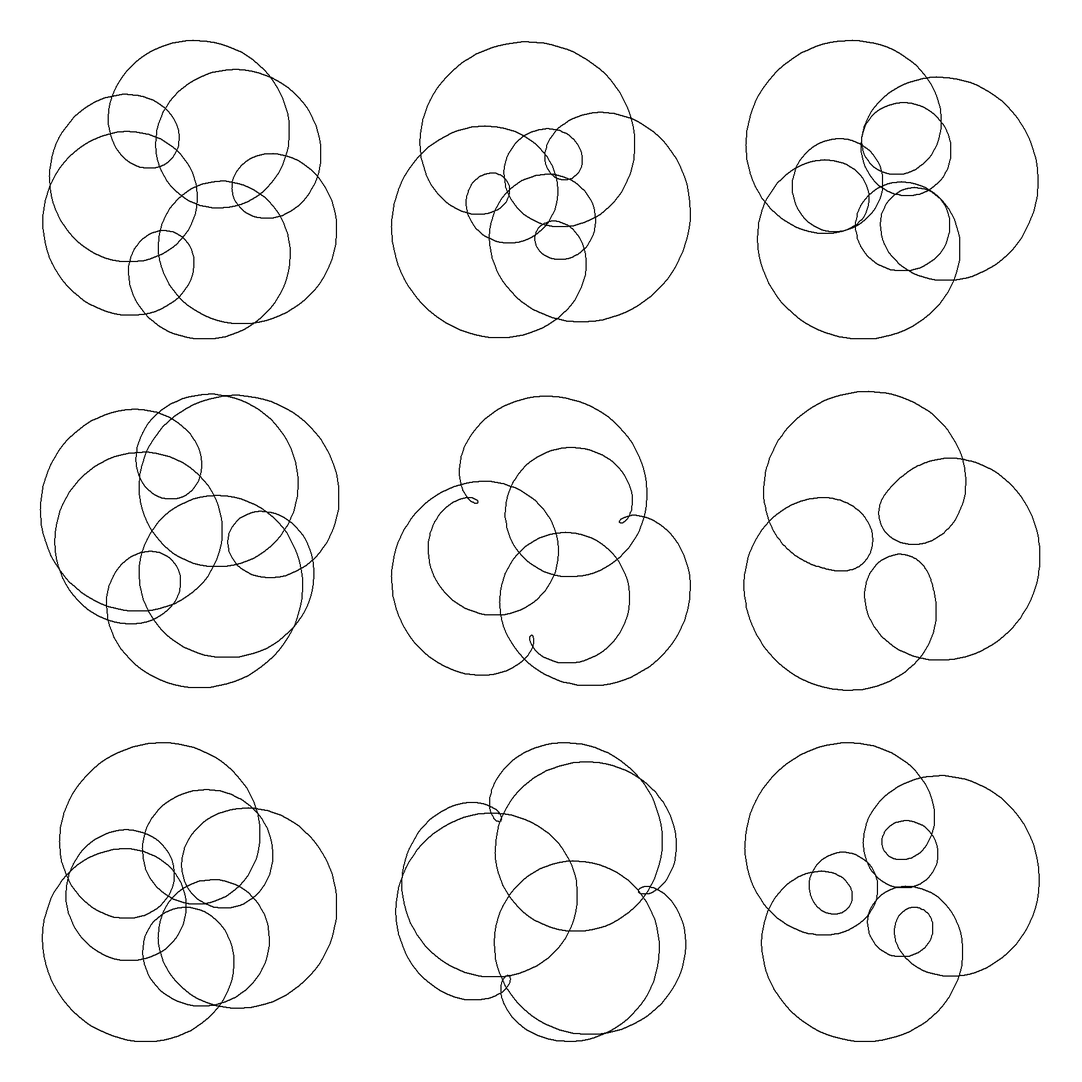
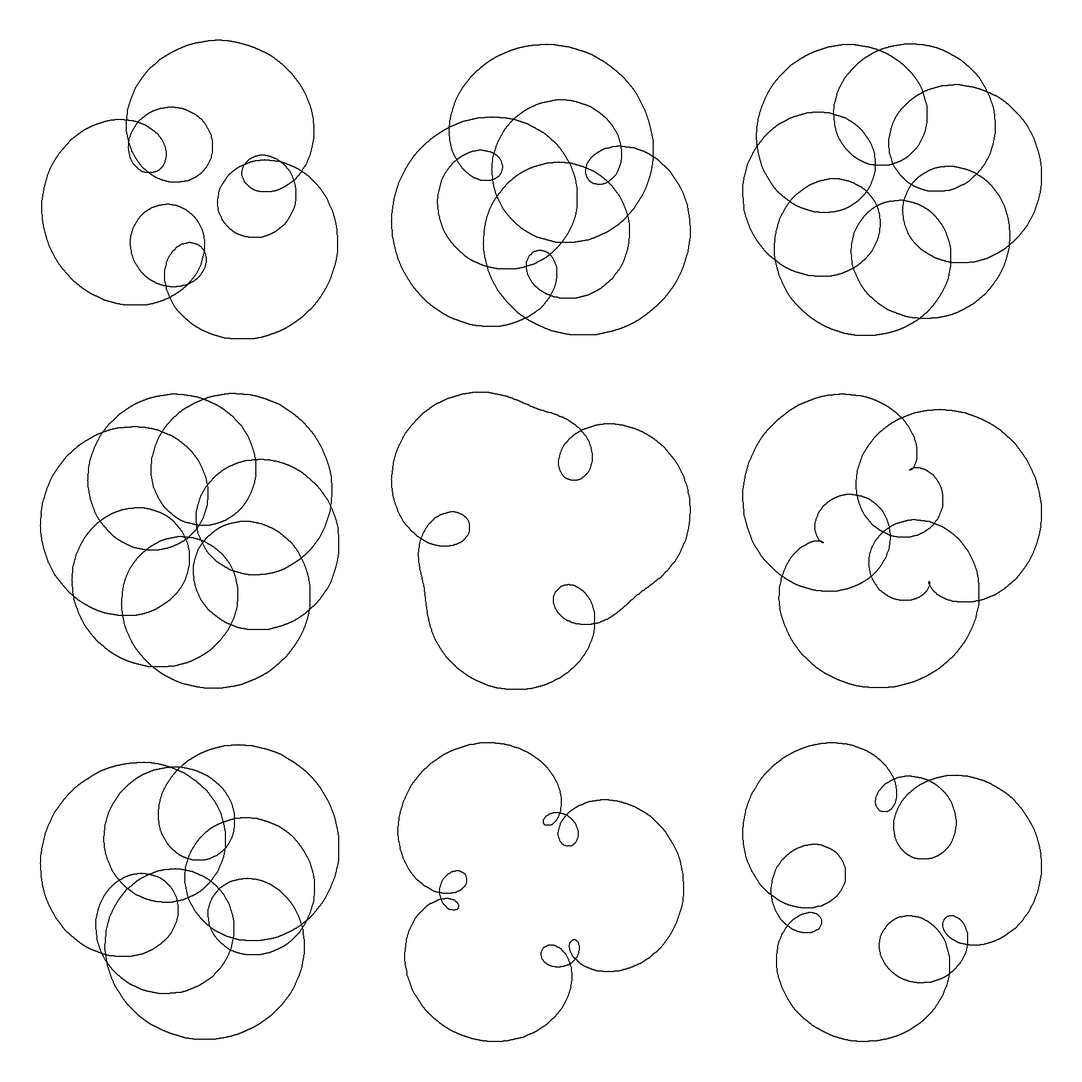
updatemysterybrot

diff --git a/docs/posts/mysterybrot/index.html b/docs/posts/mysterybrot/index.html
@@ -388,7 +388,7 @@ z_n&amp;=z_{n-1}^2+c
 <span id="cb6-2"><a href="#cb6-2" aria-hidden="true" tabindex="-1"></a>t <span class="ot">&lt;-</span> <span class="fu">seq</span>(<span class="dv">0</span>,<span class="dv">2</span><span class="sc">*</span>pi,<span class="at">l=</span><span class="dv">500</span>)</span>
 <span id="cb6-3"><a href="#cb6-3" aria-hidden="true" tabindex="-1"></a><span class="fu">par</span>(<span class="at">mfrow=</span><span class="fu">c</span>(<span class="dv">3</span>,<span class="dv">3</span>),<span class="at">mar=</span><span class="fu">c</span>(<span class="dv">1</span>,<span class="dv">1</span>,<span class="dv">1</span>,<span class="dv">1</span>),<span class="at">oma=</span><span class="fu">c</span>(<span class="dv">1</span>,<span class="dv">1</span>,<span class="dv">1</span>,<span class="dv">1</span>))</span>
 <span id="cb6-4"><a href="#cb6-4" aria-hidden="true" tabindex="-1"></a><span class="cf">for</span>(i <span class="cf">in</span> <span class="dv">1</span><span class="sc">:</span><span class="dv">9</span>){</span>
-<span id="cb6-5"><a href="#cb6-5" aria-hidden="true" tabindex="-1"></a><span class="fu">plot</span>(<span class="fu">exp</span>(<span class="dv">1</span>i<span class="sc">*</span>t) <span class="sc">+</span> <span class="fu">runif</span>(<span class="dv">1</span>)<span class="sc">*</span><span class="fu">exp</span>(<span class="dv">1</span>i<span class="sc">*</span>t)<span class="sc">^</span><span class="dv">4</span> <span class="sc">+</span> <span class="fu">runif</span>(<span class="dv">1</span>)<span class="sc">*</span><span class="fu">exp</span>(<span class="dv">1</span>i<span class="sc">*</span>(t<span class="sc">+</span>pi<span class="sc">*</span><span class="fu">runif</span>(<span class="dv">1</span>)))<span class="sc">^</span><span class="dv">7</span>, </span>
+<span id="cb6-5"><a href="#cb6-5" aria-hidden="true" tabindex="-1"></a><span class="fu">plot</span>(<span class="fu">exp</span>(<span class="dv">1</span>i<span class="sc">*</span>t) <span class="sc">+</span> <span class="fu">runif</span>(<span class="dv">1</span>,<span class="sc">-</span><span class="dv">1</span>,<span class="dv">1</span>)<span class="sc">*</span><span class="fu">exp</span>(<span class="dv">1</span>i<span class="sc">*</span>t)<span class="sc">^</span><span class="dv">4</span> <span class="sc">+</span> <span class="fu">runif</span>(<span class="dv">1</span>,<span class="sc">-</span><span class="dv">1</span>,<span class="dv">1</span>)<span class="sc">*</span><span class="fu">exp</span>(<span class="dv">1</span>i<span class="sc">*</span>(t<span class="sc">+</span>pi<span class="sc">*</span><span class="fu">runif</span>(<span class="dv">1</span>,<span class="dv">0</span>,<span class="dv">2</span>)))<span class="sc">^</span><span class="dv">7</span>, </span>
 <span id="cb6-6"><a href="#cb6-6" aria-hidden="true" tabindex="-1"></a>     <span class="at">type=</span><span class="st">"l"</span>, <span class="at">axes=</span>F,<span class="at">ann=</span>T,<span class="at">xlab=</span><span class="st">""</span>, <span class="at">ylab=</span><span class="st">""</span>,<span class="at">asp=</span><span class="dv">1</span></span>
 <span id="cb6-7"><a href="#cb6-7" aria-hidden="true" tabindex="-1"></a>     )</span>
 <span id="cb6-8"><a href="#cb6-8" aria-hidden="true" tabindex="-1"></a>}</span></code><button title="Copy to Clipboard" class="code-copy-button"><i class="bi"></i></button></pre></div>
@@ -486,7 +486,7 @@ z_n&amp;=z_{n-1}^4+z_{n-1}^7+c
 <summary>Code</summary>
 <div class="sourceCode cell-code" id="cb9"><pre class="sourceCode r code-with-copy"><code class="sourceCode r"><span id="cb9-1"><a href="#cb9-1" aria-hidden="true" tabindex="-1"></a><span class="fu">par</span>(<span class="at">mfrow=</span><span class="fu">c</span>(<span class="dv">1</span>,<span class="dv">1</span>))</span>
 <span id="cb9-2"><a href="#cb9-2" aria-hidden="true" tabindex="-1"></a><span class="fu">par</span>(<span class="at">mar=</span><span class="fu">c</span>(<span class="dv">0</span>,<span class="dv">0</span>,<span class="dv">0</span>,<span class="dv">0</span>))</span>
-<span id="cb9-3"><a href="#cb9-3" aria-hidden="true" tabindex="-1"></a>l<span class="ot">=</span><span class="fl">1.5</span></span>
+<span id="cb9-3"><a href="#cb9-3" aria-hidden="true" tabindex="-1"></a>l<span class="ot">=</span><span class="fl">1.4</span></span>
 <span id="cb9-4"><a href="#cb9-4" aria-hidden="true" tabindex="-1"></a><span class="co"># variables</span></span>
 <span id="cb9-5"><a href="#cb9-5" aria-hidden="true" tabindex="-1"></a>res<span class="ot">=</span><span class="dv">1000</span></span>
 <span id="cb9-6"><a href="#cb9-6" aria-hidden="true" tabindex="-1"></a>n<span class="ot">=</span><span class="dv">100</span></span>
@@ -500,16 +500,53 @@ z_n&amp;=z_{n-1}^4+z_{n-1}^7+c
 <span id="cb9-14"><a href="#cb9-14" aria-hidden="true" tabindex="-1"></a>    z[index] <span class="ot">&lt;-</span> </span>
 <span id="cb9-15"><a href="#cb9-15" aria-hidden="true" tabindex="-1"></a>          z[index]<span class="sc">^</span><span class="dv">6</span> <span class="sc">-</span></span>
 <span id="cb9-16"><a href="#cb9-16" aria-hidden="true" tabindex="-1"></a>          (<span class="fu">exp</span>(<span class="dv">2</span>i<span class="sc">*</span>pi<span class="sc">/</span><span class="dv">3</span>)<span class="sc">*</span>z[index])<span class="sc">^</span><span class="dv">11</span> <span class="sc">+</span> </span>
-<span id="cb9-17"><a href="#cb9-17" aria-hidden="true" tabindex="-1"></a>          c[index]</span>
-<span id="cb9-18"><a href="#cb9-18" aria-hidden="true" tabindex="-1"></a>    o[index] <span class="ot">&lt;-</span> <span class="fu">pmin</span>(o[index] , <span class="fu">Mod</span>(z[index]))</span>
-<span id="cb9-19"><a href="#cb9-19" aria-hidden="true" tabindex="-1"></a>}</span>
-<span id="cb9-20"><a href="#cb9-20" aria-hidden="true" tabindex="-1"></a>o2 <span class="ot">&lt;-</span> <span class="sc">-</span><span class="fu">log</span>(o)</span>
-<span id="cb9-21"><a href="#cb9-21" aria-hidden="true" tabindex="-1"></a><span class="fu">image</span>(x,y,o2,<span class="at">col=</span><span class="fu">hcl.colors</span>(<span class="dv">1000</span>,<span class="at">palette =</span> <span class="st">"Oslo"</span>),<span class="at">asp=</span><span class="dv">1</span>,<span class="at">axes=</span>F,<span class="at">ann=</span>F)</span></code><button title="Copy to Clipboard" class="code-copy-button"><i class="bi"></i></button></pre></div>
+<span id="cb9-17"><a href="#cb9-17" aria-hidden="true" tabindex="-1"></a>          </span>
+<span id="cb9-18"><a href="#cb9-18" aria-hidden="true" tabindex="-1"></a>          c[index]</span>
+<span id="cb9-19"><a href="#cb9-19" aria-hidden="true" tabindex="-1"></a>    o[index] <span class="ot">&lt;-</span> <span class="fu">pmin</span>(o[index] , <span class="fu">Mod</span>(z[index]))</span>
+<span id="cb9-20"><a href="#cb9-20" aria-hidden="true" tabindex="-1"></a>}</span>
+<span id="cb9-21"><a href="#cb9-21" aria-hidden="true" tabindex="-1"></a>o2 <span class="ot">&lt;-</span> <span class="sc">-</span><span class="fu">log</span>(o)</span>
+<span id="cb9-22"><a href="#cb9-22" aria-hidden="true" tabindex="-1"></a><span class="fu">image</span>(x,y,o2,<span class="at">col=</span><span class="fu">hcl.colors</span>(<span class="dv">1000</span>,<span class="at">palette =</span> <span class="st">"Batlow"</span>, <span class="at">rev=</span><span class="cn">TRUE</span>),<span class="at">asp=</span><span class="dv">1</span>,<span class="at">axes=</span>F,<span class="at">ann=</span>F)</span></code><button title="Copy to Clipboard" class="code-copy-button"><i class="bi"></i></button></pre></div>
 </details>
 <div class="cell-output-display">
 <div>
 <figure class="figure">
 <p><img src="index_files/figure-html/unnamed-chunk-10-1.png" class="img-fluid figure-img" width="960"></p>
+</figure>
+</div>
+</div>
+</div>
+<p>This one has three terms with complex coefficients</p>
+<div class="cell">
+<details class="code-fold">
+<summary>Code</summary>
+<div class="sourceCode cell-code" id="cb10"><pre class="sourceCode r code-with-copy"><code class="sourceCode r"><span id="cb10-1"><a href="#cb10-1" aria-hidden="true" tabindex="-1"></a><span class="fu">par</span>(<span class="at">mfrow=</span><span class="fu">c</span>(<span class="dv">1</span>,<span class="dv">1</span>))</span>
+<span id="cb10-2"><a href="#cb10-2" aria-hidden="true" tabindex="-1"></a><span class="fu">par</span>(<span class="at">mar=</span><span class="fu">c</span>(<span class="dv">0</span>,<span class="dv">0</span>,<span class="dv">0</span>,<span class="dv">0</span>))</span>
+<span id="cb10-3"><a href="#cb10-3" aria-hidden="true" tabindex="-1"></a>l<span class="ot">=</span><span class="fl">1.3</span></span>
+<span id="cb10-4"><a href="#cb10-4" aria-hidden="true" tabindex="-1"></a><span class="co"># variables</span></span>
+<span id="cb10-5"><a href="#cb10-5" aria-hidden="true" tabindex="-1"></a>res<span class="ot">=</span><span class="dv">1000</span></span>
+<span id="cb10-6"><a href="#cb10-6" aria-hidden="true" tabindex="-1"></a>n<span class="ot">=</span><span class="dv">200</span></span>
+<span id="cb10-7"><a href="#cb10-7" aria-hidden="true" tabindex="-1"></a>x <span class="ot">&lt;-</span> y <span class="ot">&lt;-</span> <span class="fu">seq</span>(<span class="sc">-</span>l,l, <span class="at">length.out=</span>res)</span>
+<span id="cb10-8"><a href="#cb10-8" aria-hidden="true" tabindex="-1"></a>c <span class="ot">&lt;-</span> <span class="fu">outer</span>(x,y<span class="sc">*</span><span class="dv">1</span>i,<span class="at">FUN=</span><span class="st">"+"</span>)</span>
+<span id="cb10-9"><a href="#cb10-9" aria-hidden="true" tabindex="-1"></a>z <span class="ot">&lt;-</span> <span class="fu">matrix</span>(<span class="fl">0.0</span>, <span class="at">nrow=</span>res, <span class="at">ncol=</span>res)</span>
+<span id="cb10-10"><a href="#cb10-10" aria-hidden="true" tabindex="-1"></a>o <span class="ot">&lt;-</span> <span class="fu">matrix</span>(<span class="fl">1e5</span>, <span class="at">nrow=</span>res, <span class="at">ncol=</span>res)</span>
+<span id="cb10-11"><a href="#cb10-11" aria-hidden="true" tabindex="-1"></a><span class="cf">for</span> (rep <span class="cf">in</span> <span class="dv">1</span><span class="sc">:</span>n) { </span>
+<span id="cb10-12"><a href="#cb10-12" aria-hidden="true" tabindex="-1"></a>    <span class="co">#print(rep)</span></span>
+<span id="cb10-13"><a href="#cb10-13" aria-hidden="true" tabindex="-1"></a>    index <span class="ot">&lt;-</span> <span class="fu">which</span>(<span class="fu">Mod</span>(z) <span class="sc">&lt;</span> <span class="dv">5</span>)</span>
+<span id="cb10-14"><a href="#cb10-14" aria-hidden="true" tabindex="-1"></a>    z[index] <span class="ot">&lt;-</span> </span>
+<span id="cb10-15"><a href="#cb10-15" aria-hidden="true" tabindex="-1"></a>          .<span class="dv">4</span><span class="sc">*</span>(<span class="dv">1-1</span>i)<span class="sc">*</span>z[index]<span class="sc">^</span>(<span class="dv">1</span>) <span class="sc">-</span></span>
+<span id="cb10-16"><a href="#cb10-16" aria-hidden="true" tabindex="-1"></a>          (<span class="dv">4</span><span class="fl">+.2</span>i)<span class="sc">*</span>z[index]<span class="sc">^</span><span class="dv">11</span> <span class="sc">-</span> </span>
+<span id="cb10-17"><a href="#cb10-17" aria-hidden="true" tabindex="-1"></a>          (.<span class="dv">4</span><span class="fl">-.2</span>i)<span class="sc">*</span>z[index]<span class="sc">^</span><span class="dv">31</span> <span class="sc">-</span> </span>
+<span id="cb10-18"><a href="#cb10-18" aria-hidden="true" tabindex="-1"></a>          </span>
+<span id="cb10-19"><a href="#cb10-19" aria-hidden="true" tabindex="-1"></a>          c[index]</span>
+<span id="cb10-20"><a href="#cb10-20" aria-hidden="true" tabindex="-1"></a>    o[index] <span class="ot">&lt;-</span> <span class="fu">pmin</span>(o[index] , <span class="fu">Mod</span>(z[index]))</span>
+<span id="cb10-21"><a href="#cb10-21" aria-hidden="true" tabindex="-1"></a>}</span>
+<span id="cb10-22"><a href="#cb10-22" aria-hidden="true" tabindex="-1"></a>o2 <span class="ot">&lt;-</span> <span class="sc">-</span><span class="fu">log</span>(o) <span class="sc">|&gt;</span> <span class="fu">pmin</span>(<span class="dv">4</span>)</span>
+<span id="cb10-23"><a href="#cb10-23" aria-hidden="true" tabindex="-1"></a><span class="fu">image</span>(x,y,o2,<span class="at">col=</span><span class="fu">hcl.colors</span>(<span class="dv">1000</span>,<span class="at">palette =</span> <span class="st">"Oslo"</span>, <span class="at">rev=</span><span class="cn">TRUE</span>),<span class="at">asp=</span><span class="dv">1</span>,<span class="at">axes=</span>F,<span class="at">ann=</span>F)</span></code><button title="Copy to Clipboard" class="code-copy-button"><i class="bi"></i></button></pre></div>
+</details>
+<div class="cell-output-display">
+<div>
+<figure class="figure">
+<p><img src="index_files/figure-html/unnamed-chunk-11-1.png" class="img-fluid figure-img" width="960"></p>
 </figure>
 </div>
 </div>
@@ -526,47 +563,47 @@ z_n&amp;=z_{n-1}^4+z_{n-1}^7+c
 <p>This code will create a .png for every frame of the animation, then you’ll need <code>ffmpeg</code> or similar to turn these into a video.</p>
 <p>Thanks for reading, comments always welcome.</p>
 <div class="cell">
-<div class="sourceCode cell-code" id="cb10"><pre class="sourceCode r code-with-copy"><code class="sourceCode r"><span id="cb10-1"><a href="#cb10-1" aria-hidden="true" tabindex="-1"></a>fv <span class="ot">&lt;-</span> \(x) <span class="fu">ifelse</span>(x <span class="sc">&lt;</span> <span class="fl">0.2</span> , x<span class="sc">*</span><span class="dv">3</span> , <span class="dv">1</span><span class="sc">-</span>(<span class="dv">1</span><span class="sc">-</span>x)<span class="sc">/</span><span class="dv">2</span>  ) <span class="co"># curve for the brightness</span></span>
-<span id="cb10-2"><a href="#cb10-2" aria-hidden="true" tabindex="-1"></a>res<span class="ot">=</span><span class="dv">1000</span> <span class="co"># resolution</span></span>
-<span id="cb10-3"><a href="#cb10-3" aria-hidden="true" tabindex="-1"></a>r<span class="ot">=</span><span class="dv">300</span>  <span class="co">#  total number of frames</span></span>
-<span id="cb10-4"><a href="#cb10-4" aria-hidden="true" tabindex="-1"></a><span class="cf">for</span>(i <span class="cf">in</span> <span class="dv">1</span><span class="sc">:</span>r){</span>
-<span id="cb10-5"><a href="#cb10-5" aria-hidden="true" tabindex="-1"></a>  zoom<span class="ot">=</span><span class="fl">1.5</span></span>
-<span id="cb10-6"><a href="#cb10-6" aria-hidden="true" tabindex="-1"></a>  theta <span class="ot">=</span> <span class="dv">2</span><span class="sc">*</span>pi<span class="sc">*</span>i<span class="sc">/</span>r  <span class="co"># defines the amplitude of terms of the polynomial</span></span>
-<span id="cb10-7"><a href="#cb10-7" aria-hidden="true" tabindex="-1"></a>  a1 <span class="ot">=</span> <span class="fu">cos</span>(theta) <span class="sc">*</span> <span class="fu">exp</span>(<span class="sc">-</span><span class="dv">1</span>i<span class="sc">*</span>theta)</span>
-<span id="cb10-8"><a href="#cb10-8" aria-hidden="true" tabindex="-1"></a>  a2 <span class="ot">=</span> (theta<span class="sc">&lt;</span>pi)<span class="sc">*</span><span class="fu">sin</span>(theta) <span class="sc">*</span> <span class="fu">exp</span>(<span class="dv">1</span>i<span class="sc">*</span><span class="dv">2</span><span class="sc">*</span>theta)</span>
-<span id="cb10-9"><a href="#cb10-9" aria-hidden="true" tabindex="-1"></a>  a3 <span class="ot">=</span> (theta<span class="sc">&gt;</span>pi)<span class="sc">*</span><span class="fu">sin</span>(theta) <span class="sc">*</span> <span class="fu">exp</span>(<span class="dv">1</span>i<span class="sc">*</span><span class="dv">2</span><span class="sc">*</span>theta)</span>
-<span id="cb10-10"><a href="#cb10-10" aria-hidden="true" tabindex="-1"></a>  x <span class="ot">&lt;-</span> zoom<span class="sc">*</span><span class="fu">seq</span>(<span class="sc">-</span><span class="dv">1</span>,<span class="dv">1</span>, <span class="at">l=</span>res) <span class="co"># get the x and y axes</span></span>
-<span id="cb10-11"><a href="#cb10-11" aria-hidden="true" tabindex="-1"></a>  y <span class="ot">&lt;-</span> zoom<span class="sc">*</span><span class="fu">seq</span>(<span class="sc">-</span><span class="dv">1</span>,<span class="dv">1</span>, <span class="at">l=</span>res) </span>
-<span id="cb10-12"><a href="#cb10-12" aria-hidden="true" tabindex="-1"></a>  c <span class="ot">&lt;-</span> <span class="fu">outer</span>(x,y<span class="sc">*</span><span class="dv">1</span>i,<span class="at">FUN=</span><span class="st">"+"</span>)</span>
-<span id="cb10-13"><a href="#cb10-13" aria-hidden="true" tabindex="-1"></a>  z <span class="ot">&lt;-</span> <span class="fu">matrix</span>(<span class="dv">0</span>, <span class="at">nrow=</span>res, <span class="at">ncol=</span>res)</span>
-<span id="cb10-14"><a href="#cb10-14" aria-hidden="true" tabindex="-1"></a>  o <span class="ot">&lt;-</span> <span class="fu">matrix</span>(<span class="fl">1e6</span> ,<span class="at">nrow=</span>res, <span class="at">ncol=</span>res)</span>
-<span id="cb10-15"><a href="#cb10-15" aria-hidden="true" tabindex="-1"></a>  k <span class="ot">&lt;-</span> <span class="fu">matrix</span>(<span class="dv">0</span>, <span class="at">nrow=</span>res, <span class="at">ncol=</span>res)</span>
-<span id="cb10-16"><a href="#cb10-16" aria-hidden="true" tabindex="-1"></a>  <span class="cf">for</span> (rep <span class="cf">in</span> <span class="dv">1</span><span class="sc">:</span><span class="dv">100</span>) { <span class="co"># only need 100 reps</span></span>
-<span id="cb10-17"><a href="#cb10-17" aria-hidden="true" tabindex="-1"></a>    index <span class="ot">&lt;-</span> <span class="fu">which</span>(<span class="fu">Mod</span>(z) <span class="sc">&lt;</span> <span class="dv">10</span>)</span>
-<span id="cb10-18"><a href="#cb10-18" aria-hidden="true" tabindex="-1"></a>    z[index] <span class="ot">&lt;-</span> </span>
-<span id="cb10-19"><a href="#cb10-19" aria-hidden="true" tabindex="-1"></a>      a1<span class="sc">*</span>z[index]<span class="sc">^</span><span class="dv">4</span> <span class="sc">+</span> </span>
-<span id="cb10-20"><a href="#cb10-20" aria-hidden="true" tabindex="-1"></a>      a2<span class="sc">*</span>z[index]<span class="sc">^</span><span class="dv">5</span> <span class="sc">+</span></span>
-<span id="cb10-21"><a href="#cb10-21" aria-hidden="true" tabindex="-1"></a>      a3<span class="sc">*</span>z[index]<span class="sc">^</span><span class="dv">6</span> <span class="sc">+</span> </span>
-<span id="cb10-22"><a href="#cb10-22" aria-hidden="true" tabindex="-1"></a>      c[index]</span>
-<span id="cb10-23"><a href="#cb10-23" aria-hidden="true" tabindex="-1"></a>    o[index] <span class="ot">&lt;-</span> <span class="fu">pmin</span>(o[index] , <span class="fu">Mod</span>(z[index])<span class="sc">^</span><span class="dv">2</span>)</span>
-<span id="cb10-24"><a href="#cb10-24" aria-hidden="true" tabindex="-1"></a>    </span>
-<span id="cb10-25"><a href="#cb10-25" aria-hidden="true" tabindex="-1"></a>  }</span>
-<span id="cb10-26"><a href="#cb10-26" aria-hidden="true" tabindex="-1"></a></span>
-<span id="cb10-27"><a href="#cb10-27" aria-hidden="true" tabindex="-1"></a>  <span class="fu">png</span>(<span class="fu">sprintf</span>(<span class="st">"mysterybrot%04d.png"</span>,i), <span class="at">width=</span>res,<span class="at">height=</span>res, <span class="at">type=</span><span class="st">"cairo"</span>)</span>
-<span id="cb10-28"><a href="#cb10-28" aria-hidden="true" tabindex="-1"></a>  <span class="fu">par</span>(<span class="at">mfrow=</span><span class="fu">c</span>(<span class="dv">1</span>,<span class="dv">1</span>), <span class="at">mar=</span><span class="fu">c</span>(<span class="dv">2</span>,<span class="dv">2</span>,<span class="dv">2</span>,<span class="dv">2</span>), <span class="at">bg=</span><span class="st">"#111111"</span>)</span>
-<span id="cb10-29"><a href="#cb10-29" aria-hidden="true" tabindex="-1"></a>  <span class="cf">if</span>(i<span class="sc">==</span><span class="dv">1</span>){ <span class="co"># set the breaks from the first frame to keep them consistent.</span></span>
-<span id="cb10-30"><a href="#cb10-30" aria-hidden="true" tabindex="-1"></a>    breaks <span class="ot">&lt;-</span> <span class="fu">seq</span>(<span class="sc">-</span><span class="fu">log</span>(o)<span class="sc">|&gt;</span><span class="fu">pmax</span>(<span class="sc">-</span><span class="dv">4</span>) <span class="sc">|&gt;</span><span class="fu">min</span>(),</span>
-<span id="cb10-31"><a href="#cb10-31" aria-hidden="true" tabindex="-1"></a>                  <span class="sc">-</span><span class="fu">log</span>(o)<span class="sc">|&gt;</span><span class="fu">pmax</span>(<span class="sc">-</span><span class="dv">4</span>) <span class="sc">|&gt;</span><span class="fu">max</span>(), </span>
-<span id="cb10-32"><a href="#cb10-32" aria-hidden="true" tabindex="-1"></a>                   <span class="at">l=</span><span class="dv">501</span>)</span>
-<span id="cb10-33"><a href="#cb10-33" aria-hidden="true" tabindex="-1"></a>  }</span>
-<span id="cb10-34"><a href="#cb10-34" aria-hidden="true" tabindex="-1"></a>  <span class="fu">image</span>(x,y,<span class="sc">-</span><span class="fu">log</span>((o)) <span class="sc">|&gt;</span> <span class="fu">pmax</span>(<span class="sc">-</span><span class="dv">4</span>),</span>
-<span id="cb10-35"><a href="#cb10-35" aria-hidden="true" tabindex="-1"></a>        <span class="at">col=</span><span class="fu">hsv</span>(<span class="fu">seq</span>(i<span class="sc">/</span>r<span class="fl">+.0</span>,i<span class="sc">/</span>r<span class="fl">+0.8</span>,<span class="at">l=</span><span class="dv">500</span>)<span class="sc">%%</span><span class="dv">1</span>,<span class="fu">seq</span>(<span class="dv">1</span>,<span class="dv">0</span>,<span class="at">l=</span><span class="dv">500</span>),<span class="fu">fv</span>(<span class="fu">seq</span>(<span class="dv">0</span>,<span class="dv">1</span>,<span class="at">l=</span><span class="dv">500</span>))),</span>
-<span id="cb10-36"><a href="#cb10-36" aria-hidden="true" tabindex="-1"></a>        <span class="at">breaks=</span>breaks, </span>
-<span id="cb10-37"><a href="#cb10-37" aria-hidden="true" tabindex="-1"></a>        <span class="at">asp=</span><span class="dv">1</span>,<span class="at">axes=</span>F,<span class="at">ann=</span>F, <span class="at">useRaster =</span> <span class="cn">TRUE</span>)</span>
-<span id="cb10-38"><a href="#cb10-38" aria-hidden="true" tabindex="-1"></a>  <span class="fu">dev.off</span>()</span>
-<span id="cb10-39"><a href="#cb10-39" aria-hidden="true" tabindex="-1"></a>}</span>
-<span id="cb10-40"><a href="#cb10-40" aria-hidden="true" tabindex="-1"></a></span>
-<span id="cb10-41"><a href="#cb10-41" aria-hidden="true" tabindex="-1"></a><span class="fu">shell</span>(<span class="st">"ffmpeg -r 30 -y -i mysterybrot%04d.png -c:v libx264 -r 30 -pix_fmt yuv420p mysterybrot.mp4"</span>)</span></code><button title="Copy to Clipboard" class="code-copy-button"><i class="bi"></i></button></pre></div>
+<div class="sourceCode cell-code" id="cb11"><pre class="sourceCode r code-with-copy"><code class="sourceCode r"><span id="cb11-1"><a href="#cb11-1" aria-hidden="true" tabindex="-1"></a>fv <span class="ot">&lt;-</span> \(x) <span class="fu">ifelse</span>(x <span class="sc">&lt;</span> <span class="fl">0.2</span> , x<span class="sc">*</span><span class="dv">3</span> , <span class="dv">1</span><span class="sc">-</span>(<span class="dv">1</span><span class="sc">-</span>x)<span class="sc">/</span><span class="dv">2</span>  ) <span class="co"># curve for the brightness</span></span>
+<span id="cb11-2"><a href="#cb11-2" aria-hidden="true" tabindex="-1"></a>res<span class="ot">=</span><span class="dv">1000</span> <span class="co"># resolution</span></span>
+<span id="cb11-3"><a href="#cb11-3" aria-hidden="true" tabindex="-1"></a>r<span class="ot">=</span><span class="dv">300</span>  <span class="co">#  total number of frames</span></span>
+<span id="cb11-4"><a href="#cb11-4" aria-hidden="true" tabindex="-1"></a><span class="cf">for</span>(i <span class="cf">in</span> <span class="dv">1</span><span class="sc">:</span>r){</span>
+<span id="cb11-5"><a href="#cb11-5" aria-hidden="true" tabindex="-1"></a>  zoom<span class="ot">=</span><span class="fl">1.5</span></span>
+<span id="cb11-6"><a href="#cb11-6" aria-hidden="true" tabindex="-1"></a>  theta <span class="ot">=</span> <span class="dv">2</span><span class="sc">*</span>pi<span class="sc">*</span>i<span class="sc">/</span>r  <span class="co"># defines the amplitude of terms of the polynomial</span></span>
+<span id="cb11-7"><a href="#cb11-7" aria-hidden="true" tabindex="-1"></a>  a1 <span class="ot">=</span> <span class="fu">cos</span>(theta) <span class="sc">*</span> <span class="fu">exp</span>(<span class="sc">-</span><span class="dv">1</span>i<span class="sc">*</span>theta)</span>
+<span id="cb11-8"><a href="#cb11-8" aria-hidden="true" tabindex="-1"></a>  a2 <span class="ot">=</span> (theta<span class="sc">&lt;</span>pi)<span class="sc">*</span><span class="fu">sin</span>(theta) <span class="sc">*</span> <span class="fu">exp</span>(<span class="dv">1</span>i<span class="sc">*</span><span class="dv">2</span><span class="sc">*</span>theta)</span>
+<span id="cb11-9"><a href="#cb11-9" aria-hidden="true" tabindex="-1"></a>  a3 <span class="ot">=</span> (theta<span class="sc">&gt;</span>pi)<span class="sc">*</span><span class="fu">sin</span>(theta) <span class="sc">*</span> <span class="fu">exp</span>(<span class="dv">1</span>i<span class="sc">*</span><span class="dv">2</span><span class="sc">*</span>theta)</span>
+<span id="cb11-10"><a href="#cb11-10" aria-hidden="true" tabindex="-1"></a>  x <span class="ot">&lt;-</span> zoom<span class="sc">*</span><span class="fu">seq</span>(<span class="sc">-</span><span class="dv">1</span>,<span class="dv">1</span>, <span class="at">l=</span>res) <span class="co"># get the x and y axes</span></span>
+<span id="cb11-11"><a href="#cb11-11" aria-hidden="true" tabindex="-1"></a>  y <span class="ot">&lt;-</span> zoom<span class="sc">*</span><span class="fu">seq</span>(<span class="sc">-</span><span class="dv">1</span>,<span class="dv">1</span>, <span class="at">l=</span>res) </span>
+<span id="cb11-12"><a href="#cb11-12" aria-hidden="true" tabindex="-1"></a>  c <span class="ot">&lt;-</span> <span class="fu">outer</span>(x,y<span class="sc">*</span><span class="dv">1</span>i,<span class="at">FUN=</span><span class="st">"+"</span>)</span>
+<span id="cb11-13"><a href="#cb11-13" aria-hidden="true" tabindex="-1"></a>  z <span class="ot">&lt;-</span> <span class="fu">matrix</span>(<span class="dv">0</span>, <span class="at">nrow=</span>res, <span class="at">ncol=</span>res)</span>
+<span id="cb11-14"><a href="#cb11-14" aria-hidden="true" tabindex="-1"></a>  o <span class="ot">&lt;-</span> <span class="fu">matrix</span>(<span class="fl">1e6</span> ,<span class="at">nrow=</span>res, <span class="at">ncol=</span>res)</span>
+<span id="cb11-15"><a href="#cb11-15" aria-hidden="true" tabindex="-1"></a>  k <span class="ot">&lt;-</span> <span class="fu">matrix</span>(<span class="dv">0</span>, <span class="at">nrow=</span>res, <span class="at">ncol=</span>res)</span>
+<span id="cb11-16"><a href="#cb11-16" aria-hidden="true" tabindex="-1"></a>  <span class="cf">for</span> (rep <span class="cf">in</span> <span class="dv">1</span><span class="sc">:</span><span class="dv">100</span>) { <span class="co"># only need 100 reps</span></span>
+<span id="cb11-17"><a href="#cb11-17" aria-hidden="true" tabindex="-1"></a>    index <span class="ot">&lt;-</span> <span class="fu">which</span>(<span class="fu">Mod</span>(z) <span class="sc">&lt;</span> <span class="dv">10</span>)</span>
+<span id="cb11-18"><a href="#cb11-18" aria-hidden="true" tabindex="-1"></a>    z[index] <span class="ot">&lt;-</span> </span>
+<span id="cb11-19"><a href="#cb11-19" aria-hidden="true" tabindex="-1"></a>      a1<span class="sc">*</span>z[index]<span class="sc">^</span><span class="dv">4</span> <span class="sc">+</span> </span>
+<span id="cb11-20"><a href="#cb11-20" aria-hidden="true" tabindex="-1"></a>      a2<span class="sc">*</span>z[index]<span class="sc">^</span><span class="dv">5</span> <span class="sc">+</span></span>
+<span id="cb11-21"><a href="#cb11-21" aria-hidden="true" tabindex="-1"></a>      a3<span class="sc">*</span>z[index]<span class="sc">^</span><span class="dv">6</span> <span class="sc">+</span> </span>
+<span id="cb11-22"><a href="#cb11-22" aria-hidden="true" tabindex="-1"></a>      c[index]</span>
+<span id="cb11-23"><a href="#cb11-23" aria-hidden="true" tabindex="-1"></a>    o[index] <span class="ot">&lt;-</span> <span class="fu">pmin</span>(o[index] , <span class="fu">Mod</span>(z[index])<span class="sc">^</span><span class="dv">2</span>)</span>
+<span id="cb11-24"><a href="#cb11-24" aria-hidden="true" tabindex="-1"></a>    </span>
+<span id="cb11-25"><a href="#cb11-25" aria-hidden="true" tabindex="-1"></a>  }</span>
+<span id="cb11-26"><a href="#cb11-26" aria-hidden="true" tabindex="-1"></a></span>
+<span id="cb11-27"><a href="#cb11-27" aria-hidden="true" tabindex="-1"></a>  <span class="fu">png</span>(<span class="fu">sprintf</span>(<span class="st">"mysterybrot%04d.png"</span>,i), <span class="at">width=</span>res,<span class="at">height=</span>res, <span class="at">type=</span><span class="st">"cairo"</span>)</span>
+<span id="cb11-28"><a href="#cb11-28" aria-hidden="true" tabindex="-1"></a>  <span class="fu">par</span>(<span class="at">mfrow=</span><span class="fu">c</span>(<span class="dv">1</span>,<span class="dv">1</span>), <span class="at">mar=</span><span class="fu">c</span>(<span class="dv">2</span>,<span class="dv">2</span>,<span class="dv">2</span>,<span class="dv">2</span>), <span class="at">bg=</span><span class="st">"#111111"</span>)</span>
+<span id="cb11-29"><a href="#cb11-29" aria-hidden="true" tabindex="-1"></a>  <span class="cf">if</span>(i<span class="sc">==</span><span class="dv">1</span>){ <span class="co"># set the breaks from the first frame to keep them consistent.</span></span>
+<span id="cb11-30"><a href="#cb11-30" aria-hidden="true" tabindex="-1"></a>    breaks <span class="ot">&lt;-</span> <span class="fu">seq</span>(<span class="sc">-</span><span class="fu">log</span>(o)<span class="sc">|&gt;</span><span class="fu">pmax</span>(<span class="sc">-</span><span class="dv">4</span>) <span class="sc">|&gt;</span><span class="fu">min</span>(),</span>
+<span id="cb11-31"><a href="#cb11-31" aria-hidden="true" tabindex="-1"></a>                  <span class="sc">-</span><span class="fu">log</span>(o)<span class="sc">|&gt;</span><span class="fu">pmax</span>(<span class="sc">-</span><span class="dv">4</span>) <span class="sc">|&gt;</span><span class="fu">max</span>(), </span>
+<span id="cb11-32"><a href="#cb11-32" aria-hidden="true" tabindex="-1"></a>                   <span class="at">l=</span><span class="dv">501</span>)</span>
+<span id="cb11-33"><a href="#cb11-33" aria-hidden="true" tabindex="-1"></a>  }</span>
+<span id="cb11-34"><a href="#cb11-34" aria-hidden="true" tabindex="-1"></a>  <span class="fu">image</span>(x,y,<span class="sc">-</span><span class="fu">log</span>((o)) <span class="sc">|&gt;</span> <span class="fu">pmax</span>(<span class="sc">-</span><span class="dv">4</span>),</span>
+<span id="cb11-35"><a href="#cb11-35" aria-hidden="true" tabindex="-1"></a>        <span class="at">col=</span><span class="fu">hsv</span>(<span class="fu">seq</span>(i<span class="sc">/</span>r<span class="fl">+.0</span>,i<span class="sc">/</span>r<span class="fl">+0.8</span>,<span class="at">l=</span><span class="dv">500</span>)<span class="sc">%%</span><span class="dv">1</span>,<span class="fu">seq</span>(<span class="dv">1</span>,<span class="dv">0</span>,<span class="at">l=</span><span class="dv">500</span>),<span class="fu">fv</span>(<span class="fu">seq</span>(<span class="dv">0</span>,<span class="dv">1</span>,<span class="at">l=</span><span class="dv">500</span>))),</span>
+<span id="cb11-36"><a href="#cb11-36" aria-hidden="true" tabindex="-1"></a>        <span class="at">breaks=</span>breaks, </span>
+<span id="cb11-37"><a href="#cb11-37" aria-hidden="true" tabindex="-1"></a>        <span class="at">asp=</span><span class="dv">1</span>,<span class="at">axes=</span>F,<span class="at">ann=</span>F, <span class="at">useRaster =</span> <span class="cn">TRUE</span>)</span>
+<span id="cb11-38"><a href="#cb11-38" aria-hidden="true" tabindex="-1"></a>  <span class="fu">dev.off</span>()</span>
+<span id="cb11-39"><a href="#cb11-39" aria-hidden="true" tabindex="-1"></a>}</span>
+<span id="cb11-40"><a href="#cb11-40" aria-hidden="true" tabindex="-1"></a></span>
+<span id="cb11-41"><a href="#cb11-41" aria-hidden="true" tabindex="-1"></a><span class="fu">shell</span>(<span class="st">"ffmpeg -r 30 -y -i mysterybrot%04d.png -c:v libx264 -r 30 -pix_fmt yuv420p mysterybrot.mp4"</span>)</span></code><button title="Copy to Clipboard" class="code-copy-button"><i class="bi"></i></button></pre></div>
 </div>
 <script src="https://giscus.app/client.js" data-repo="georgemsavva/creativecoding" data-repo-id="R_kgDOHRS9pg" data-category="Announcements" data-category-id="DIC_kwDOHRS9ps4CO5d8" data-mapping="pathname" data-reactions-enabled="1" data-emit-metadata="0" data-input-position="bottom" data-theme="light" data-lang="en" crossorigin="anonymous" async="">
 </script>

diff --git a/docs/solutions.html b/docs/solutions.html
@@ -4875,7 +4875,7 @@ probability of success
 <div class="cell-output-display">
 <div>
 <figure class="figure">
[2 lines of base64/hex data omitted]
 </figure>
 </div>
 </div>
@@ -4886,13 +4886,13 @@ probability of success
     Welch Two Sample t-test
 
 data:  controlResults and testResults
-t = -0.27587, df = 16.529, p-value = 0.7861
+t = -0.42732, df = 16.023, p-value = 0.6748
 alternative hypothesis: true difference in means is not equal to 0
 95 percent confidence interval:
- -68.60823  52.77155
+ -53.48741  35.53966
 sample estimates:
 mean of x mean of y 
- 452.6648  460.5831 </code></pre>
+ 471.5660  480.5399 </code></pre>
 </div>
 </div>
 <p>If we only had one person per group we couldn’t conclude anything, since we wouldn’t know if the difference is due to the person or due to the treatment.</p>

diff --git a/docs/index.html b/docs/index.html
@@ -209,7 +209,7 @@ window.Quarto = {
 
 <div class="quarto-listing quarto-listing-container-default" id="listing-listing">
 <div class="list quarto-listing-default">
-<div class="quarto-post image-right" data-index="0" data-categories="art,R" data-listing-date-sort="1704067200000" data-listing-file-modified-sort="1733188860238" data-listing-date-modified-sort="NaN" data-listing-reading-time-sort="10" data-listing-word-count-sort="1845">
+<div class="quarto-post image-right" data-index="0" data-categories="art,R" data-listing-date-sort="1704067200000" data-listing-file-modified-sort="1733269676815" data-listing-date-modified-sort="NaN" data-listing-reading-time-sort="10" data-listing-word-count-sort="1975">
 <div class="thumbnail">
 <p><a href="./posts/mysterybrot/index.html" class="no-external"></a></p><a href="./posts/mysterybrot/index.html" class="no-external">
 <p class="card-img-top"><img src="posts\mysterybrot\arot0139.png"  class="thumbnail-image card-img"/></p>
